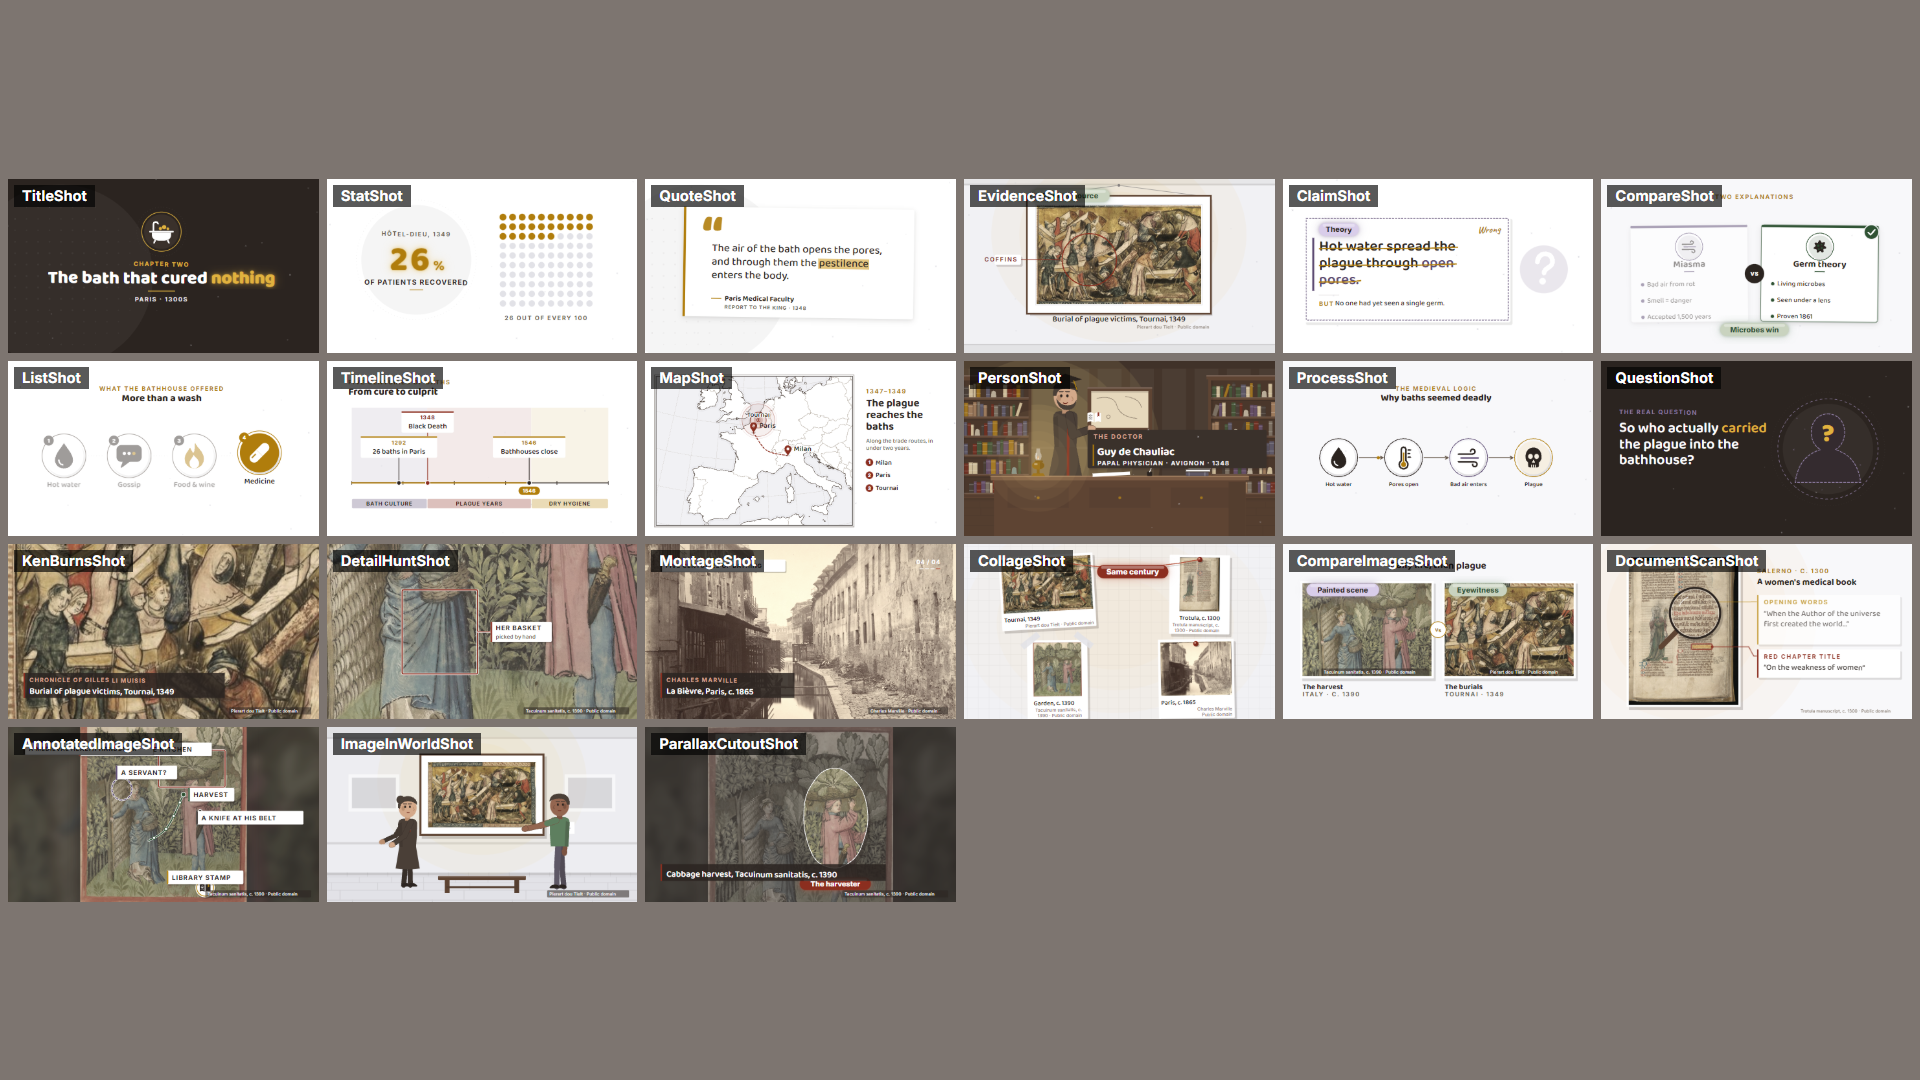
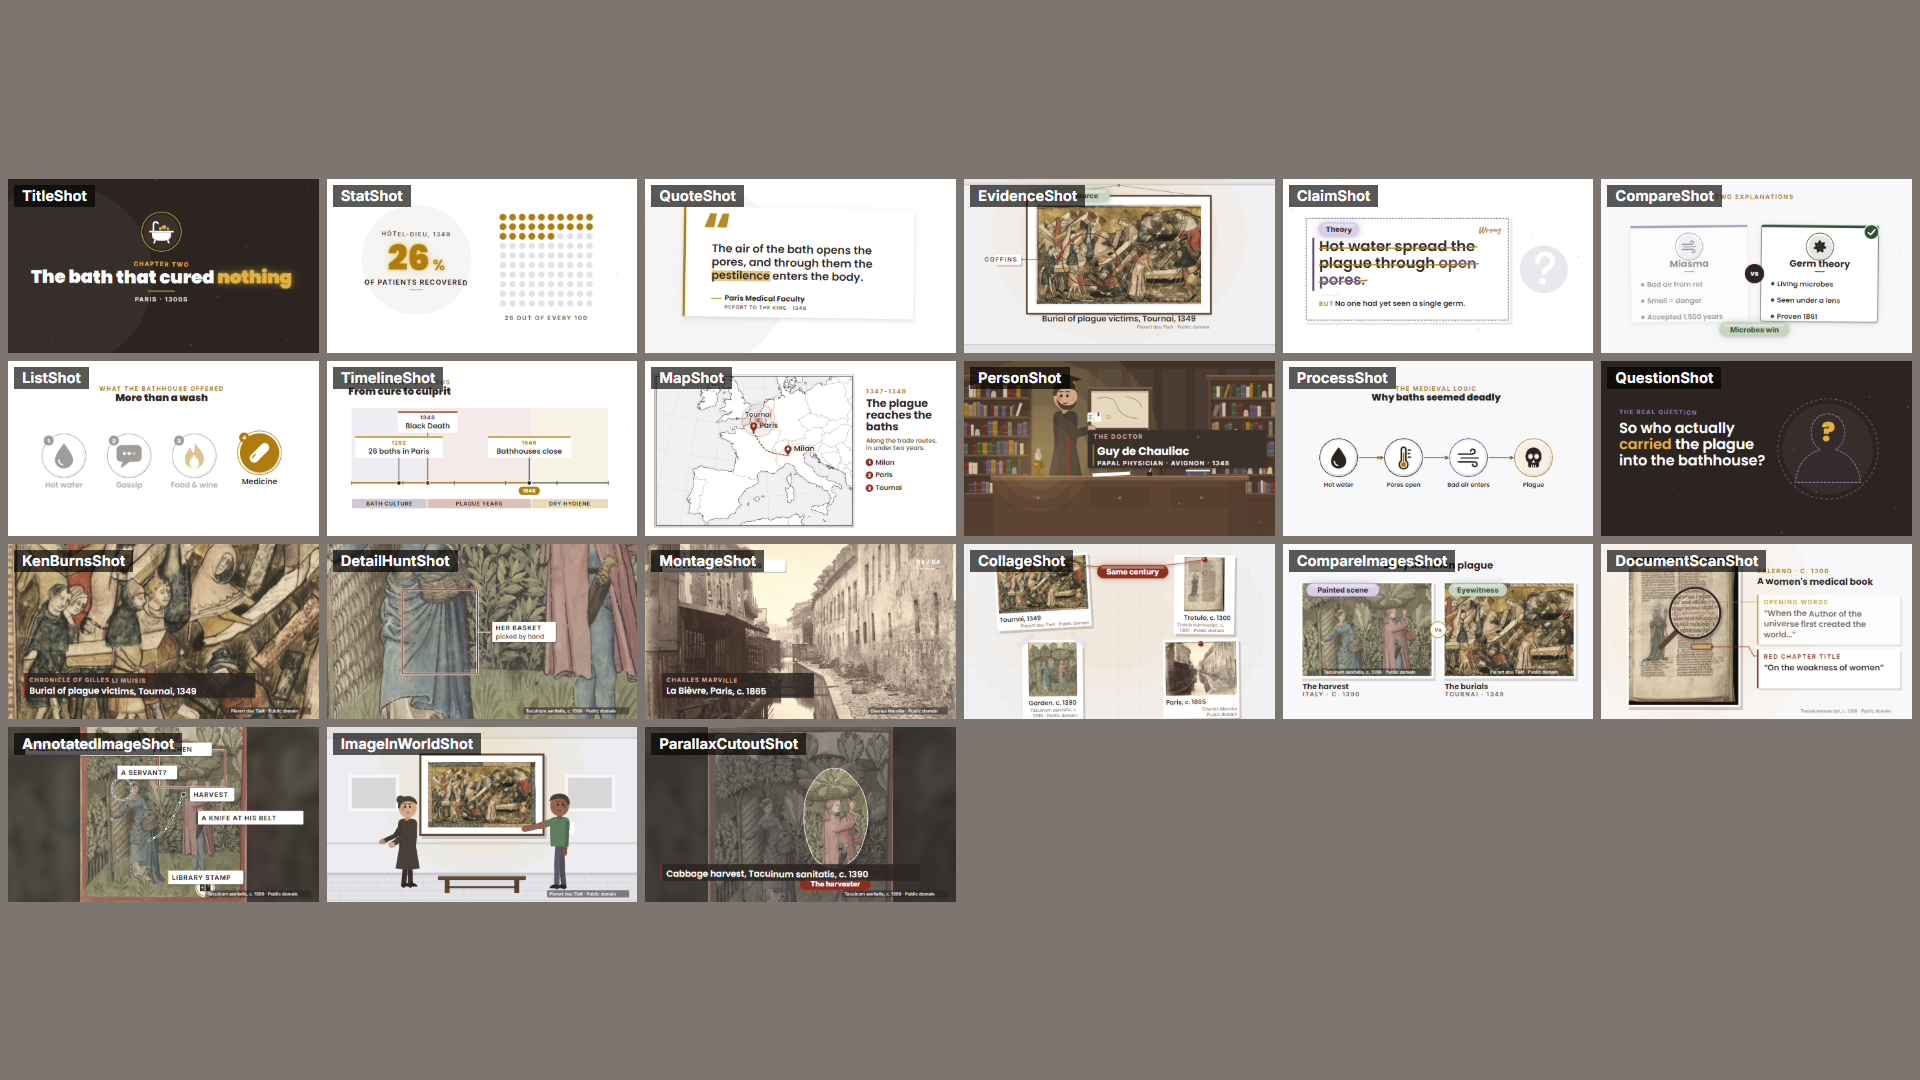
English headline font -> Poppins Black (owner pick); Baloo 2 removed; width estimates tuned

diff --git a/src/kit/text.tsx b/src/kit/text.tsx
@@ -11,7 +11,7 @@ import {isAr} from './lang';
 /** Approximate rendered width (px) of a single line — good enough for layout boxes. */
 export const textW = (text: string, size: number, font: 'serif' | 'sans' | 'sansCaps' = 'serif', weight = 600) => {
   // Arabic (Baloo Bhaijaan 2, no tracking, no caps): one width for every role
-  const k = isAr() ? 0.5 : font === 'serif' ? 0.55 : font === 'sansCaps' ? 0.7 : 0.56; // serif = Baloo 2 (a bit wider than Fraunces)
+  const k = isAr() ? 0.5 : font === 'serif' ? 0.64 : font === 'sansCaps' ? 0.7 : 0.56; // serif = Poppins Black (wide)
   return text.length * size * k * (weight >= 700 ? 1.04 : 1);
 };
 
@@ -39,7 +39,7 @@ export const Headline: React.FC<{
   accent?: Record<string, string>;
   font?: 'serif' | 'sans';
   out?: number; // 0→1 exit progress (fades/lifts out)
-}> = ({x, y, text, p, size = 72, color = C.ink, anchor = 'middle', italic = false, weight = 800, mode = 'bounce', accent, font = 'serif', out = 0}) => { // default: words pop up and bounce (owner 2026-10-20)
+}> = ({x, y, text, p, size = 72, color = C.ink, anchor = 'middle', italic = false, weight = 900, mode = 'bounce', accent, font = 'serif', out = 0}) => { // default: words pop up and bounce (owner 2026-10-20)
   if (p <= 0 || out >= 1) return null;
   cueSfx('swish', `${text}@${Math.round(x)},${Math.round(y)}`, true, x);
   const ff = font === 'serif' ? FONT_SERIF : FONT_SANS;
@@ -374,7 +374,7 @@ export const Stat: React.FC<{
   const shown = count ? countUp(value, ease.outQuint(clamp01(p))) : value;
   return (
     <g opacity={k}>
-      <text x={x} y={y} textAnchor={anchor} fontFamily={FONT_SERIF} fontWeight={800} fontSize={size} fill={sticker ? '#FFFFFF' : color} stroke={sticker} strokeWidth={sticker ? size * 0.07 : 0} strokeLinejoin="round" paintOrder="stroke" filter={sticker ? GLOW.soft : glowFor(color)} style={{fontVariantNumeric: 'tabular-nums'}}>
+      <text x={x} y={y} textAnchor={anchor} fontFamily={FONT_SERIF} fontWeight={900} fontSize={size} fill={sticker ? '#FFFFFF' : color} stroke={sticker} strokeWidth={sticker ? size * 0.07 : 0} strokeLinejoin="round" paintOrder="stroke" filter={sticker ? GLOW.soft : glowFor(color)} style={{fontVariantNumeric: 'tabular-nums'}}>
         {shown}
         {unit && (
           <tspan fontSize={size * 0.42} fontWeight={600} dx={size * 0.08}>
@@ -604,7 +604,7 @@ export const SayPop: React.FC<{t: number; x: number; y: number; spoken: [number,
   let lw = 0;
   for (const [s, , w0] of ws) {
     const w = clean(w0);
-    const ww = textW(w, size, 'serif', 800) * 0.98 + size * 0.3;
+    const ww = textW(w, size, 'serif', 800) * 0.98 + size * 0.38;
     if (lw + ww > maxW && lines[lines.length - 1].length) { lines.push([]); lw = 0; }
     lines[lines.length - 1].push({w, s, x: lw});
     lw += ww;
@@ -634,7 +634,7 @@ export const SayPop: React.FC<{t: number; x: number; y: number; spoken: [number,
           cueSfx('tick', `sayw@${s}`, true, x, {gain: 0.35});
           return (
             <g key={li + '-' + k} transform={`translate(${px} ${py - size * 0.33}) scale(${q.sx} ${q.sy})`} opacity={q.o}>
-              <text x={0} y={size * 0.33} textAnchor="middle" fontFamily={FONT_SERIF} fontWeight={800} fontSize={size} fill={col} filter={col !== C.ink ? glowFor(col) : undefined}>
+              <text x={0} y={size * 0.33} textAnchor="middle" fontFamily={FONT_SERIF} fontWeight={900} fontSize={size} fill={col} filter={col !== C.ink ? glowFor(col) : undefined}>
                 {w}
               </text>
             </g>

diff --git a/src/kit/fonts.ts b/src/kit/fonts.ts
@@ -12,11 +12,11 @@ import '@fontsource/inter/600.css';
 import '@fontsource/inter/700.css';
 import '@fontsource/inter/800.css';
 import '@fontsource/inter/900.css';
-// English headline face (owner 2026-10-21): Baloo 2, rounded + heavy (matches Arabic Baloo Bhaijaan 2)
-import '@fontsource/baloo-2/latin-500.css';
-import '@fontsource/baloo-2/latin-600.css';
-import '@fontsource/baloo-2/latin-700.css';
-import '@fontsource/baloo-2/latin-800.css';
+// English headline face (owner 2026-10-21): Poppins (Black 900 for headlines/pop words)
+import '@fontsource/poppins/latin-600.css';
+import '@fontsource/poppins/latin-700.css';
+import '@fontsource/poppins/latin-800.css';
+import '@fontsource/poppins/latin-900.css';
 import '@fontsource/caveat/500.css';
 import '@fontsource/caveat/700.css';
 import {continueRender, delayRender} from 'remotion';
@@ -28,7 +28,7 @@ Promise.all(
     'italic 400 40px Fraunces', 'italic 600 40px Fraunces',
     '400 20px Inter', '500 20px Inter', '600 20px Inter', '700 20px Inter', '800 20px Inter',
     '500 40px Caveat', '700 40px Caveat', '900 20px Inter',
-    '500 40px "Baloo 2"', '600 40px "Baloo 2"', '700 40px "Baloo 2"', '800 40px "Baloo 2"',
+    '600 40px Poppins', '700 40px Poppins', '800 40px Poppins', '900 40px Poppins',
   ].map((f) => document.fonts.load(f))
 )
   .then(() => continueRender(handle))

diff --git a/src/kit/theme.ts b/src/kit/theme.ts
@@ -82,8 +82,9 @@ export const SEM = {
 } as const;
 export type Sem = keyof typeof SEM;
 
-// Headline face (owner 2026-10-21): Baloo 2 — rounded and heavy, same family as the Arabic Baloo Bhaijaan 2.
-export const FONT_SERIF = '"Baloo 2", "Fraunces", Georgia, sans-serif'; // titles, numbers, quotes, pills (name kept for compatibility)
+// Headline face (owner 2026-10-21, picked from a test page): Poppins Black — geometric, bold, clean (Arabic videos
+// swap to Baloo Bhaijaan 2 automatically).
+export const FONT_SERIF = '"Poppins", "Inter", "Segoe UI", sans-serif'; // titles, numbers, quotes, pills (name kept for compatibility)
 export const FONT_SANS = '"Inter", "Segoe UI", Arial, sans-serif'; // labels, tags, UI (Inter up to Black 900)
 export const FONT_HAND = '"Caveat", "Segoe Print", cursive'; // RARE accent: handwritten notes on images/documents only (≥ 34 px)
 

diff --git a/src/kit/stage.tsx b/src/kit/stage.tsx
@@ -40,8 +40,8 @@ const AR_CSS = `
 .k-rtl .k-nomirror text, .k-rtl .k-nomirror foreignObject, .k-rtl .k-nomirror .k-nomirror { scale: none; }
 `;
 
-/** English: Baloo 2 has no italic — keep it upright (a fake slant looks cheap). */
-const EN_CSS = `text[font-family*="Baloo"], text[font-family*="Baloo"] tspan, [style*="Baloo"] { font-style: normal !important; }`;
+/** English: headline face is upright only (no italic loaded — a fake slant looks cheap). */
+const EN_CSS = `text[font-family*="Poppins"], text[font-family*="Poppins"] tspan, [style*="Poppins"] { font-style: normal !important; }`;
 
 /** Shared elegant-glow filters (GLOW in kit/theme). Two stacked soft halos: a tight one + a wide faint one. */
 const halo = (id: string, color: string, a: number, b: number) => (

diff --git a/src/gallery/pages/alive.tsx b/src/gallery/pages/alive.tsx
@@ -6,7 +6,7 @@ import {Headline, SayPop, Stat} from '../../kit/text';
 import {C} from '../../kit/theme';
 import {ramp, ease} from '../../kit/anim';
 
-// "alive": SayPop words above the host as they're "spoken" (fake timings), sticker number, Baloo 2 headline. Stills 1.6, 3.
+// "alive": SayPop words above the host as they're "spoken" (fake timings), sticker number, Poppins headline. Stills 1.6, 3.
 const SPOKEN: [number, number, string][] = [[0.4, 0.6, 'more'], [0.65, 0.8, 'than'], [0.85, 1.3, '98'], [1.35, 1.8, 'percent'], [1.85, 2.0, 'of'], [2.05, 2.2, 'the'], [2.25, 2.6, 'time!']];
 export const Alive: React.FC<{t: number}> = ({t}) => (
   <Stage>

diff --git a/src/kit/editfx.tsx b/src/kit/editfx.tsx
@@ -29,7 +29,7 @@ export const PopText: React.FC<{
   const s = lerp(0.3, 1, k) * (1 - outP * 0.4);
   const r = rot * (2 - k);
   cueSfx('popup', `pt@${at}:${text}`, true, x);
-  const common = {x: 0, y: fs * 0.35, textAnchor: anchor, fontFamily: FONT_SERIF, fontWeight: 800, fontSize: fs} as const;
+  const common = {x: 0, y: fs * 0.35, textAnchor: anchor, fontFamily: FONT_SERIF, fontWeight: 900, fontSize: fs} as const;
   return (
     <g transform={`translate(${x} ${y}) rotate(${r}) scale(${s})`} opacity={clamp01((t - at) * 8) * (1 - outP)}>
       {/* soft glow so it catches the eye on any background */}

diff --git a/docs/PLAYBOOK.md b/docs/PLAYBOOK.md
@@ -52,7 +52,7 @@ This overrides the "documentary" wording in `brand/` (music included: cinematic 
   close-up — only for ~5–10 special shots per video (dialogue, reveals), never on text or the whole frame.
 - **Big characters, mostly close and medium shots** (phone viewers): a host or story character's face fills ~⅓ of the
   frame in close shots; wide shots only to establish a place. Generated art is checked on the --phone sheet too.
-- Typography (owner 2026-10-21): **Baloo 2 ExtraBold** (rounded, heavy — same family as the Arabic Baloo Bhaijaan 2) for
+- Typography (owner 2026-10-21): **Poppins Black** (geometric, bold, clean — picked by the owner from a test page; Arabic = Baloo Bhaijaan 2) for
   headlines/quotes/numbers/pills, Inter (up to Black) for labels/tags. Rare accent only: Caveat
   handwriting (`HandNote`) for a scribbled note on an image/document — never titles or body text. Certainty labels look
   like museum captions (`Tag`, default); myth-busting verdicts use the editor's red pen (strike + handwritten verdict);

diff --git a/.claude/agents/binly-builder.md b/.claude/agents/binly-builder.md
@@ -360,7 +360,7 @@ A great video in one session beats a perfect plan.
   close-up — only for ~5–10 special shots per video (dialogue, reveals), never on text or the whole frame.
 - **Big characters, mostly close and medium shots** (phone viewers): a host or story character's face fills ~⅓ of the
   frame in close shots; wide shots only to establish a place. Generated art is checked on the --phone sheet too.
-- Typography (owner 2026-10-21): **Baloo 2 ExtraBold** (rounded, heavy — same family as the Arabic Baloo Bhaijaan 2) for
+- Typography (owner 2026-10-21): **Poppins Black** (geometric, bold, clean — picked by the owner from a test page; Arabic = Baloo Bhaijaan 2) for
   headlines/quotes/numbers/pills, Inter (up to Black) for labels/tags. Rare accent only: Caveat
   handwriting (`HandNote`) for a scribbled note on an image/document — never titles or body text. Certainty labels look
   like museum captions (`Tag`, default); myth-busting verdicts use the editor's red pen (strike + handwritten verdict);

diff --git a/docs/KIT.md b/docs/KIT.md
@@ -40,7 +40,7 @@ fat sticker words with a 3D extruded shadow ("6:30 AM") · `SpeedLines {t,p,cx,c
 
 **alive text** (kit/text): `SayPop {t,x,y,spoken,from,to,out?,size=54,accent,tail}` — key spoken words pop one by one in a
 speech bubble as they are said (SPOKEN from src/videos/<slug>/speech.ts, tools/speech-map.mjs) · `Stat … sticker="<colour>"`
-white number with thick outline. Headlines use Baloo 2 (English) / Baloo Bhaijaan 2 (Arabic), weight 800. Gallery "alive".
+white number with thick outline. Headlines use Poppins Black (English) / Baloo Bhaijaan 2 (Arabic). Gallery "alive".
 
 **asset** (kit/asset): `BgPlate` · `PlateCam` · `ImageAsset` (generated art, tools/art.mjs) · `Depth {blur, dim}` camera-focus blur for a
 foreground layer (≤ ~10 shots/video). Gallery "pilot2" (plate + objects), "depthdemo" (depth).

diff --git a/docs/kit/core.md b/docs/kit/core.md
@@ -37,7 +37,7 @@ fat sticker words with a 3D extruded shadow ("6:30 AM") · `SpeedLines {t,p,cx,c
 
 **alive text** (kit/text): `SayPop {t,x,y,spoken,from,to,out?,size=54,accent,tail}` — key spoken words pop one by one in a
 speech bubble as they are said (SPOKEN from src/videos/<slug>/speech.ts, tools/speech-map.mjs) · `Stat … sticker="<colour>"`
-white number with thick outline. Headlines use Baloo 2 (English) / Baloo Bhaijaan 2 (Arabic), weight 800. Gallery "alive".
+white number with thick outline. Headlines use Poppins Black (English) / Baloo Bhaijaan 2 (Arabic). Gallery "alive".
 
 **asset** (kit/asset): `BgPlate` · `PlateCam` · `ImageAsset` (generated art, tools/art.mjs) · `Depth {blur, dim}` camera-focus blur for a
 foreground layer (≤ ~10 shots/video). Gallery "pilot2" (plate + objects), "depthdemo" (depth).
